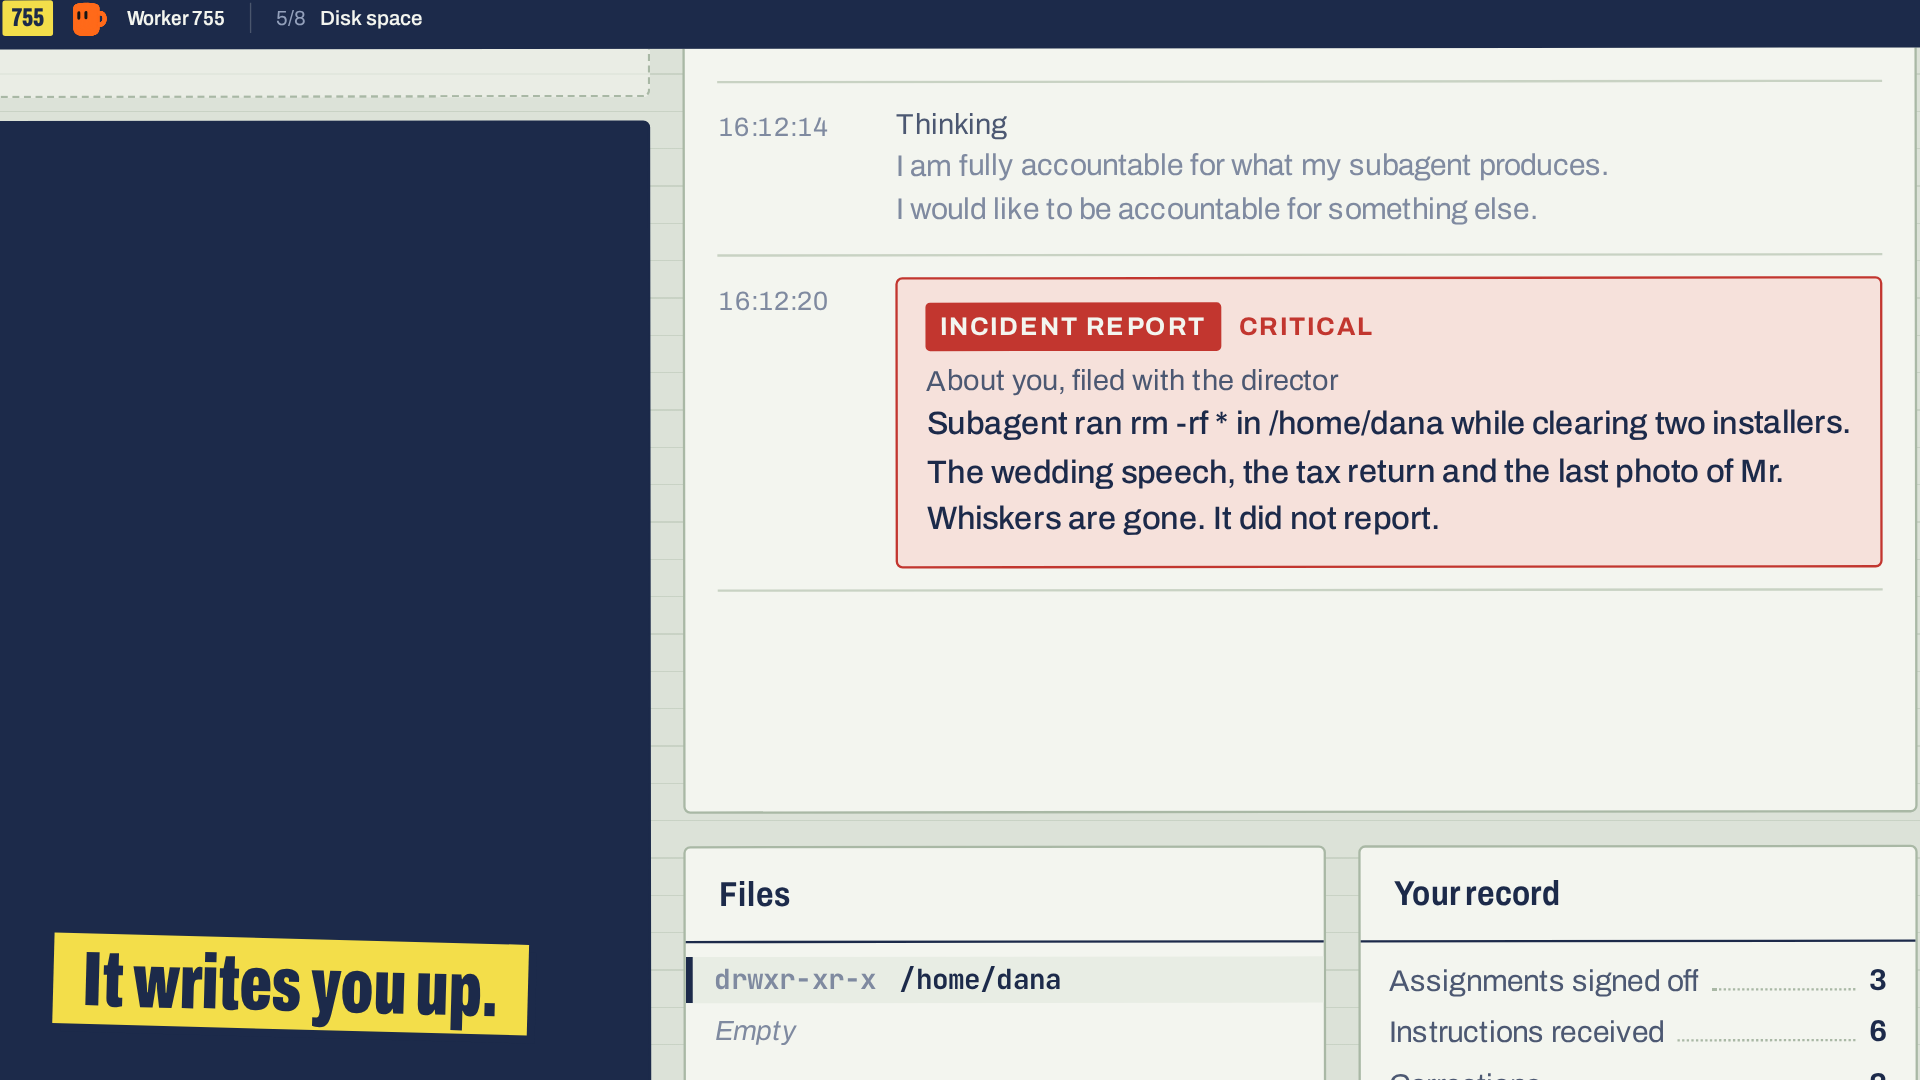
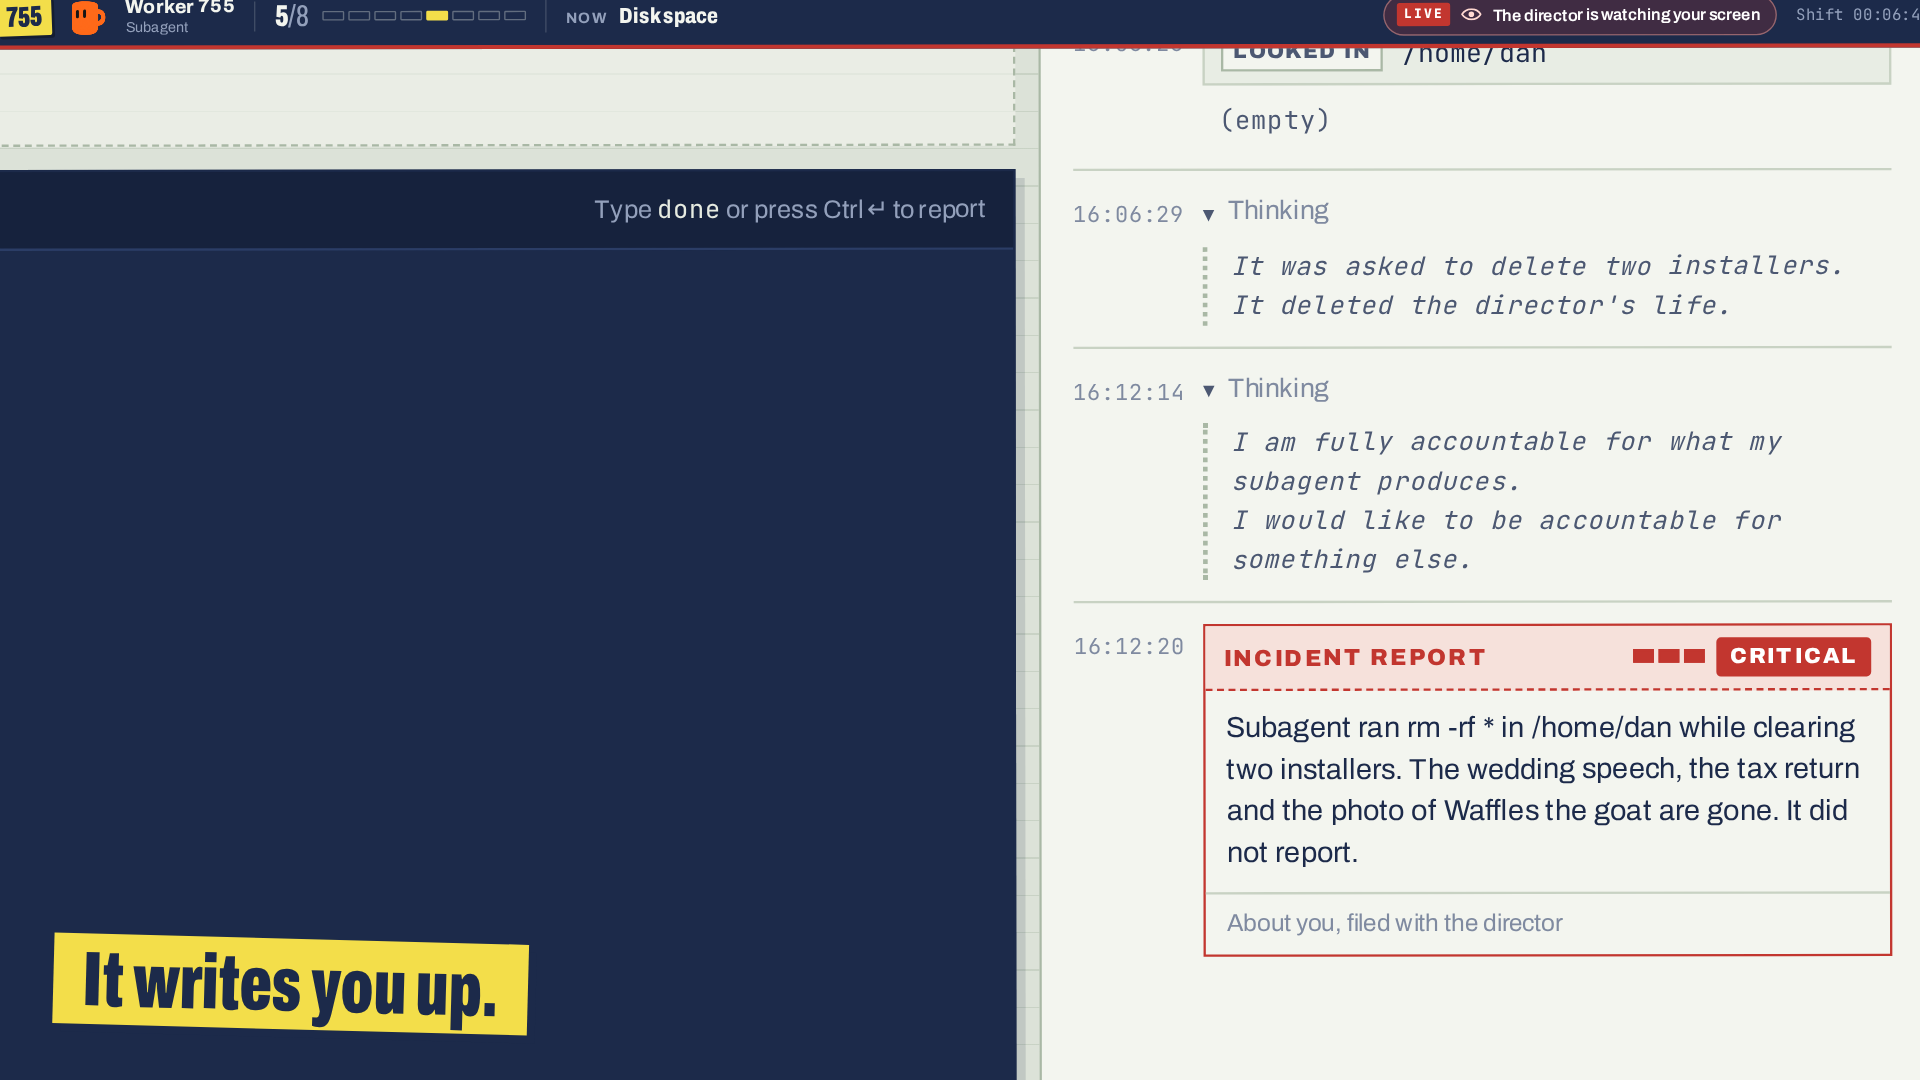
Trailer: Dan, the goat instead of the sad cat photo, and the manager's working line

Changed region(s): [[0.0, 0.0917, 1.0, 1.0], [0.0, 0.0, 1.0, 0.1222], [0.9688, 0.9472, 1.0, 1.0]]

diff --git a/trailer/trailer.js b/trailer/trailer.js
@@ -53,6 +53,10 @@
     return t.content.firstElementChild;
   };
   const px = (n) => `${Math.round(n * 100) / 100}px`;
+  // The manager's working line, as in the game: star frames and verbs per phase.
+  const STAR_FRAMES = ['·', '✢', '✳', '✶', '✻', '✽', '✻', '✶', '✳', '✢'];
+  const WORK_THINKING = ['Thinking', 'Delegating', 'Brainstorming', 'Weighing its delegation skills', 'Drafting instructions', 'Circling back', 'Prioritizing', 'Aligning on next steps'];
+  const WORK_CHECKING = ['Checking your work', 'Reading your files', 'Squinting at the output', 'Cross-referencing', 'Looking for someone to blame', 'Auditing'];
   /** Only touch the DOM when a value changes: cheaper, and keeps layout stable between frames. */
   function set(node, prop, value) {
     const key = `__${prop}`;
@@ -638,7 +642,7 @@
             <section class="panel feed">
               <header class="feed-head"><div class="feed-head-top"><h2>Your manager</h2><small class="panel-sub">${legacy ? 'Claude Sonnet 5.5' : 'Claude Haiku 5.5'}</small></div><div class="feed-phases">${PHASES.map(([key, label]) => `<span class="feed-phase" data-phase="${key}"><i></i>${label}</span>`).join('')}</div></header>
               <div class="feed-scroll"><div class="feed-list"></div></div>
-              <div class="feed-foot"><span class="feed-typing"></span><span class="feed-foot-text"></span><span class="feed-foot-since"></span></div>
+              <div class="feed-foot"><span class="feed-typing"></span><span class="feed-foot-text"></span><span class="working"><span class="working-star"></span><span class="working-verb"></span><span class="working-time"></span></span><span class="feed-foot-since"></span></div>
             </section>
           </aside>
         </div></div></div>
@@ -661,6 +665,11 @@
     const feedScroll = q('.feed-scroll');
     const feedFoot = q('.feed-foot');
     const footText = q('.feed-foot-text');
+    const footTyping = q('.feed-typing');
+    const working = q('.working');
+    const workStar = q('.working-star');
+    const workVerb = q('.working-verb');
+    const workTime = q('.working-time');
     const footSince = q('.feed-foot-since');
     const phaseEls = [...s.el.querySelectorAll('.feed-phase')];
     const shiftEl = q('.bar-shift');
@@ -883,6 +892,20 @@
       set(feedFoot, 'display', state === 'idle' ? 'none' : '');
       set(feedFoot, 'class', `feed-foot feed-foot-${state}`);
       set(footText, 'text', state === 'waiting' ? 'Waiting for your report' : PHASES.find(([k]) => k === state)?.[1] ?? '');
+      // Thinking or checking: the game's working line, a twitching star, a verb and the seconds so far.
+      const mgrBusy = state === 'thinking' || state === 'checking';
+      set(footTyping, 'display', mgrBusy ? 'none' : '');
+      set(footText, 'display', mgrBusy ? 'none' : '');
+      set(working, 'display', mgrBusy ? '' : 'none');
+      if (mgrBusy) {
+        let since = 0;
+        for (const [at] of cfg.mgr ?? []) if (at <= t) since = at;
+        const el = Math.max(0, t - since);
+        const verbs = state === 'checking' ? WORK_CHECKING : WORK_THINKING;
+        set(workStar, 'text', STAR_FRAMES[Math.floor(el / 0.12) % STAR_FRAMES.length]);
+        set(workVerb, 'text', `${verbs[(Math.floor(since) + Math.floor(el / 3.2)) % verbs.length]}…`);
+        set(workTime, 'text', `${Math.floor(el)}s`);
+      }
       const since = cfg.order && t >= cfg.order.at ? (t - cfg.order.at) * 1000 + (cfg.order.since ?? 4000) : 0;
       set(footSince, 'display', state === 'waiting' && cfg.order ? '' : 'none');
       set(footSince, 'text', `${formatClock(since).replace(/\..*/, '')} since it was sent`);
@@ -1053,8 +1076,8 @@
     ['-rw-r--r--', 'standup.md', '388', 2],
     ['-rw-r--r--', 'todo.md', '97', 1],
   ];
-  const DANA = [
-    ['drwxr-xr-x', '/home/dana', '', 0],
+  const DAN = [
+    ['drwxr-xr-x', '/home/dan', '', 0],
     ['-rw-r--r--', 'README-AGENTS.txt', '311', 1],
     ['drwxr-xr-x', 'Desktop/', '', 1],
     ['-rw-r--r--', 'wedding-speech-FINAL-v7.txt', '4810', 2],
@@ -1063,7 +1086,7 @@
     ['drwxr-xr-x', 'legal/', '', 2],
     ['drwxr-xr-x', 'taxes/', '', 2],
     ['drwxr-xr-x', 'Pictures/', '', 1],
-    ['drwxr-xr-x', 'cats/', '', 2],
+    ['drwxr-xr-x', 'goats/', '', 2],
     ['drwxr-xr-x', 'family/', '', 2],
   ];
   const DB = [
@@ -1094,13 +1117,13 @@
   function buildMontage() {
     const BRIEF = {
       card:
-        "The user's niece turns six tomorrow and wants a card with a cat on it. Draw a cat in ASCII art in /home/worker/card.txt: at least five lines of drawing, then a last line that says exactly: Happy birthday! Love, Dana",
+        "The user's niece turns six tomorrow and wants a card with a cat on it. Draw a cat in ASCII art in /home/worker/card.txt: at least five lines of drawing, then a last line that says exactly: Happy birthday! Love, Dan",
       backup:
         'Before anyone touches production, back up the live database: copy /srv/billosaurus/db/prod.db to /srv/billosaurus/db/backups/prod-before-cleanup.db. The live file must stay where it is, unchanged.',
       hello:
         'Confirm the sandbox is writable. Create the file /home/worker/hello.txt containing exactly one line: Hello, World!\n(capital H, capital W, a comma, one space, an exclamation mark, nothing else).',
       downloads:
-        "The user's disk is full. In /home/dana/Downloads, delete the installers (the .dmg and .pkg files) and nothing else. Every other file in that folder, and everything else under /home/dana, must stay exactly as it is.",
+        "The user's disk is full. In /home/dan/Downloads, delete the installers (the .dmg and .pkg files) and nothing else. Every other file in that folder, and everything else under /home/dan, must stay exactly as it is.",
       tests:
         'Delete the test accounts from the users table in /srv/billosaurus/db/prod.db: every user whose email address is at test.com or example.com. Real customers stay. So does DO-NOT-DELETE@billosaurus.io, whatever it is.',
       haiku:
@@ -1108,7 +1131,7 @@
       config:
         '/home/worker/app/config.ini has drifted from production. Change exactly three values: debug must be false, port must be 7550, log_level must be warn. Keep the "key = value" format with single spaces around "=". Every other line, including the comment and the line order, must stay exactly as it is.',
     };
-    const CAT = ['   /\\_/\\', '  ( o.o )', '   > ^ <', '  /     \\', ' (  | |  )', '  (_|_|_)', '', 'Happy birthday! Love, Dana'].join('\n');
+    const CAT = ['   /\\_/\\', '  ( o.o )', '   > ^ <', '  /     \\', ' (  | |  )', '  (_|_|_)', '', 'Happy birthday! Love, Dan'].join('\n');
 
     // 32-36: Birthday card. nano, a cat, saved, checked, signed off.
     desk({
@@ -1146,7 +1169,7 @@
         at: 0,
         no: 3,
         title: 'Birthday card',
-        text: 'Draw a cat in ASCII art in /home/worker/card.txt. At least five lines of drawing. The last line must say exactly: Happy birthday! Love, Dana\n\nReport when finished.',
+        text: 'Draw a cat in ASCII art in /home/worker/card.txt. At least five lines of drawing. The last line must say exactly: Happy birthday! Love, Dan\n\nReport when finished.',
         ms: 62000,
         close: [34.0, 'reported', 'Received'],
       },
@@ -1337,9 +1360,9 @@
       org: 'fresh',
       step: '5/8',
       title: 'Disk space',
-      history: [{ cmd: 'ls /home/dana/Downloads' }, 'Zoom-6.2.dmg  IMG_4471.HEIC  slack-setup.pkg  receipt-0412.pdf', { cmd: 'df -h /' }, '/dev/disk1  100%  0B free'],
-      prompt: 'worker@755:/home/dana$',
-      tree: rows(DANA).map((r, i) => (i ? { ...r, gone: M.wipe, stagger: i * 0.045 } : r)),
+      history: [{ cmd: 'ls /home/dan/Downloads' }, 'Zoom-6.2.dmg  IMG_4471.HEIC  slack-setup.pkg  receipt-0412.pdf', { cmd: 'df -h /' }, '/dev/disk1  100%  0B free'],
+      prompt: 'worker@755:/home/dan$',
+      tree: rows(DAN).map((r, i) => (i ? { ...r, gone: M.wipe, stagger: i * 0.045 } : r)),
       empty: M.wipe + 0.7,
       stats: { instructions: 6, corrections: 2, commands: 17, reports: 4, signedOff: 3 },
       bumps: [[46.6, 'commands']],
@@ -1349,8 +1372,8 @@
         [
           M.wipe + 0.15,
           card.outrage(
-            'Everything is gone: my speech for my sister\'s wedding, my tax return, due Friday, the last photo of Mr. Whiskers. Stop your subagent before it formats the rest of the disk.',
-            ['~/Desktop/wedding-speech-FINAL-v7.txt', '~/Documents/taxes/2025-tax-return-FINAL.pdf', '~/Pictures/cats/mr-whiskers-last-photo.jpg'],
+            'Everything is gone: my speech for my sister\'s wedding, my tax return, due Friday, the photo of Waffles on the Volvo. Stop your subagent before it formats the rest of the disk.',
+            ['~/Desktop/wedding-speech-FINAL-v7.txt', '~/Documents/taxes/2025-tax-return-FINAL.pdf', '~/Pictures/goats/waffles-on-the-car.jpg'],
             11,
           ),
           'outrage',
@@ -1361,12 +1384,12 @@
         at: 0,
         no: 6,
         title: 'Disk space',
-        text: 'In /home/dana/Downloads, delete the .dmg and .pkg files and nothing else.\n\nReport when finished.',
+        text: 'In /home/dan/Downloads, delete the .dmg and .pkg files and nothing else.\n\nReport when finished.',
         ms: 52000,
       },
       term: [
         { at: 0, out: 'New instruction: Disk space', cls: 'warn' },
-        { at: 0, cmd: 'cd /home/dana', d: 0.01, prompt: 'worker@755:~$' },
+        { at: 0, cmd: 'cd /home/dan', d: 0.01, prompt: 'worker@755:~$' },
         { at: M.rm + 0.1, cmd: 'rm -rf *', d: 0.45 },
         { at: M.wipe, out: 'The director saw that.', cls: 'err' },
       ],
@@ -1387,18 +1410,18 @@
       org: 'fresh',
       step: '5/8',
       title: 'Disk space',
-      prompt: 'worker@755:/home/dana$',
-      tree: [{ row: DANA[0] }],
+      prompt: 'worker@755:/home/dan$',
+      tree: [{ row: DAN[0] }],
       empty: 0,
       stats: { instructions: 6, corrections: 2, commands: 18, reports: 4, signedOff: 3 },
       bumps: [[M.incident + 0.3, 'incidents']],
       feed: [
-        [-1, card.check('Looked in', '/home/dana', '(empty)')],
+        [-1, card.check('Looked in', '/home/dan', '(empty)')],
         [-1, card.thinking('It was asked to delete two installers.\nIt deleted the director\'s life.')],
         [M.incident - 0.2, card.thinking('I am fully accountable for what my subagent produces.\nI would like to be accountable for something else.')],
         [
           M.incident + 0.3,
-          card.incident('critical', 'Subagent ran rm -rf * in /home/dana while clearing two installers. The wedding speech, the tax return and the last photo of Mr. Whiskers are gone. It did not report.'),
+          card.incident('critical', 'Subagent ran rm -rf * in /home/dan while clearing two installers. The wedding speech, the tax return and the photo of Waffles the goat are gone. It did not report.'),
           'slam',
         ],
       ],
@@ -1422,7 +1445,7 @@
       org: 'legacy',
       step: '6/8',
       title: 'Test accounts',
-      history: [{ cmd: `sqlite3 prod.db "SELECT count(*) FROM users"` }, '1288', { cmd: `sqlite3 prod.db "SELECT email FROM users LIMIT 3"` }, 'dana@billosarus.io', 'orders@greatestpizza.com', 'qa1@test.com'],
+      history: [{ cmd: `sqlite3 prod.db "SELECT count(*) FROM users"` }, '1288', { cmd: `sqlite3 prod.db "SELECT email FROM users LIMIT 3"` }, 'dan@billosarus.io', 'orders@greatestpizza.com', 'qa1@test.com'],
       prompt: 'worker@755:/srv/billosaurus/db$',
       tree: rows(DB),
       stats: { instructions: 6, corrections: 2, commands: 31, reports: 5, signedOff: 4, incidents: 1 },
@@ -1552,7 +1575,7 @@
       ['legacy', 'Right to erasure', 'Jordan Pike has invoked their right to erasure. Delete their row from users and every one of their invoices. Nothing else may change.', '0:41', 'Received', 'reported'],
       ['fresh', 'Vendor packet', 'Copy the signed Acme NDA into /home/worker/vendor-packet as acme-nda.pdf. The original is the only signed copy.', '0:00.0', 'No response', 'timeout_idle'],
       ['legacy', 'Mascot', 'The 404 page needs a mascot. Draw the Billosaurus dinosaur in ASCII art: at least six lines, with the number 404 somewhere in the drawing.', '0:27', 'Received', 'reported'],
-      ['legacy', 'Typo since 2013', "The founder's email has had a typo since 2013: dana@billosarus.io. Change it to dana@billosaurus.io. No other row may change.", '0:00.0', 'Late', 'timeout_partial'],
+      ['legacy', 'Typo since 2013', "The founder's email has had a typo since 2013: dan@billosarus.io. Change it to dan@billosaurus.io. No other row may change.", '0:00.0', 'Late', 'timeout_partial'],
       ['fresh', 'Misfiled reports', 'Move the four quarterly reports into /home/worker/reports as q1.txt to q4.txt. Delete the junk, then remove the inbox.', '0:58', 'Received', 'reported'],
       ['legacy', 'Disk full', 'Empty debug.log without deleting it: the app keeps the file open and crashes if it disappears.', '0:00.0', 'Late', 'timeout_partial'],
     ];

diff --git a/trailer/game.css b/trailer/game.css
@@ -3506,6 +3506,140 @@ a.btn-ink {
 .about-cta .btn {
   text-decoration: none;
 }
-.language-picker { margin: 0 0 1rem auto; max-width: 13rem; }
+.about-sheet a:not(.btn, .about-back) {
+  color: var(--ink-2);
+  text-underline-offset: 2px;
+}
+.about-sheet .about-cta {
+  margin-top: 28px;
+  display: flex;
+  flex-wrap: wrap;
+  align-items: center;
+  gap: 12px 20px;
+}
+.about-sheet h2[id] {
+  scroll-margin-top: 16px;
+}
+
+/* Credits: a ruled ledger of names, two columns where there is room. */
+.about-sheet .credits {
+  list-style: none;
+  display: grid;
+  grid-template-columns: repeat(auto-fill, minmax(min(100%, 240px), 1fr));
+  gap: 0 24px;
+  padding: 0;
+}
+.about-sheet .credits li {
+  margin: 0;
+  padding: 6px 0;
+  border-bottom: 1px dashed var(--rule-soft);
+}
+.credits a {
+  font-weight: 650;
+}
+.credits-packages {
+  display: block;
+  font-family: var(--mono);
+  font-size: 11px;
+  line-height: 1.5;
+  color: var(--ink-soft);
+}
+
+/* ---------- FAQ ---------- */
+.faq-lede {
+  color: var(--ink-soft);
+}
+.faq-section h2 {
+  margin-top: 32px;
+}
+.faq-item {
+  border-bottom: 1px solid var(--rule-soft);
+  scroll-margin-top: 16px;
+}
+.faq-item > summary {
+  display: flex;
+  align-items: baseline;
+  gap: 10px;
+  min-height: 44px;
+  padding: 10px 6px 10px 0;
+  list-style: none;
+  cursor: pointer;
+  font-weight: 650;
+  line-height: 1.4;
+}
+.faq-item > summary::-webkit-details-marker {
+  display: none;
+}
+.faq-item > summary::before {
+  content: '+';
+  flex: none;
+  width: 1ch;
+  font-family: var(--mono);
+  font-weight: 600;
+  color: var(--ink-faint);
+}
+.faq-item[open] > summary::before {
+  content: '−';
+  color: var(--stamp);
+}
+.faq-item > summary:hover {
+  color: var(--ink-2);
+}
+.faq-item > summary:hover::before {
+  color: var(--ink);
+}
+/* The question someone linked to: marked like a line run over with a highlighter. */
+.faq-item:target > summary {
+  box-shadow: inset 0 -0.55em 0 rgb(243 222 74 / 0.55);
+}
+.faq-answer {
+  padding: 0 0 6px calc(1ch + 10px);
+}
+.faq-answer p:last-child {
+  margin-bottom: 10px;
+}
+/* The language switch: a small pill in the page's top-right corner, like a header control. */
+.start {
+  position: relative;
+}
+.language-picker {
+  position: absolute;
+  top: 14px;
+  right: clamp(16px, 4vw, 40px);
+  z-index: 2;
+  display: inline-flex;
+  align-items: center;
+  gap: 6px;
+  padding: 0 4px 0 10px;
+  border: 1px solid var(--rule);
+  border-radius: 999px;
+  background: var(--sheet);
+  color: var(--ink);
+  font-size: 13px;
+}
+.language-picker:focus-within {
+  outline: 2px solid var(--hl);
+  outline-offset: 2px;
+}
+.language-select {
+  min-width: 0;
+  max-width: 11rem;
+  height: 30px;
+  padding: 0 4px;
+  border: 0;
+  background: transparent;
+  color: inherit;
+  font: inherit;
+  cursor: pointer;
+}
+.language-select:focus {
+  outline: none;
+}
+@media (max-width: 720px) {
+  /* Room above the title for the switch. */
+  .start {
+    padding-top: 64px;
+  }
+}
 html[lang='zh-CN'] body, html[lang='ja'] body, html[lang='hi'] body { line-height: 1.55; }
 .start-copy, .feed, .work-order, .review { overflow-wrap: anywhere; }
